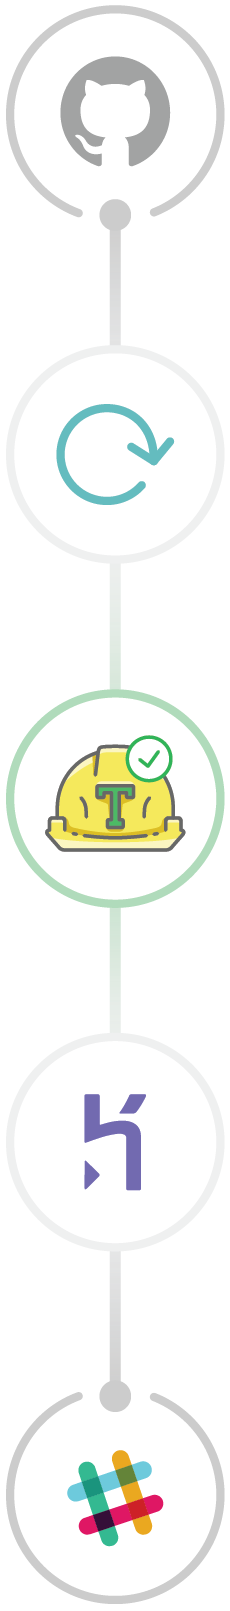
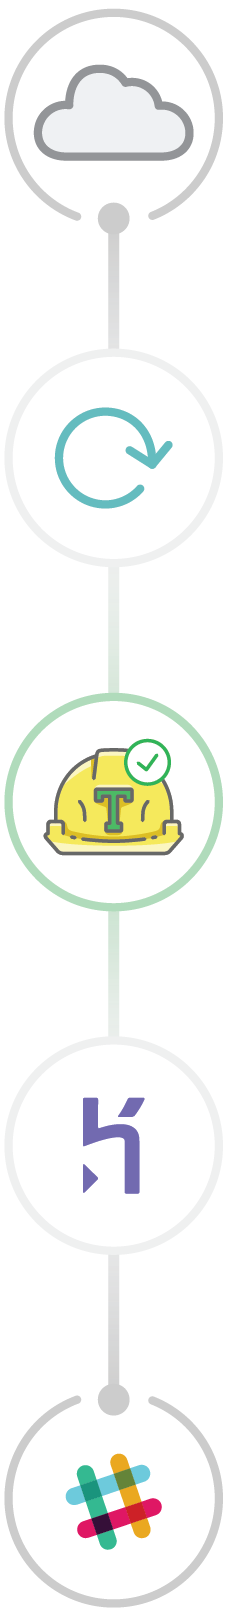
Update build flow diagram

diff --git a/app/styles/app/pages/landing.scss b/app/styles/app/pages/landing.scss
@@ -620,15 +620,18 @@
         background-size: 57px;
         margin-top: 7px;
       }
+
       @media #{$large-up} {
         background-image: url("../images/landing-page/build-flow.png");
+        background-position: center center;
         background-repeat: no-repeat;
         width: 900px;
-        height: 114px;
-        background-size: 900px;
+        height: 116px;
+        background-size:100% auto;
         margin: 0 auto;
       }
     }
+
 
     .build-pr-image {
       @media #{$small-up} {
@@ -639,6 +642,7 @@
         background-size: 57px;
         margin-top: 7px;
       }
+
       @media #{$large-up} {
         background-image: url("../images/landing-page/pr-flow.png");
         background-repeat: no-repeat;

diff --git a/app/styles/app/pages/home-pro.scss b/app/styles/app/pages/home-pro.scss
@@ -288,10 +288,11 @@
 
       @media #{$large-up} {
         background-image: url("../images/landing-page/build-flow.png");
+        background-position: center center;
         background-repeat: no-repeat;
         width: 900px;
-        height: 114px;
-        background-size: 900px;
+        height: 116px;
+        background-size:100% auto;
         margin: 0 auto;
       }
     }
